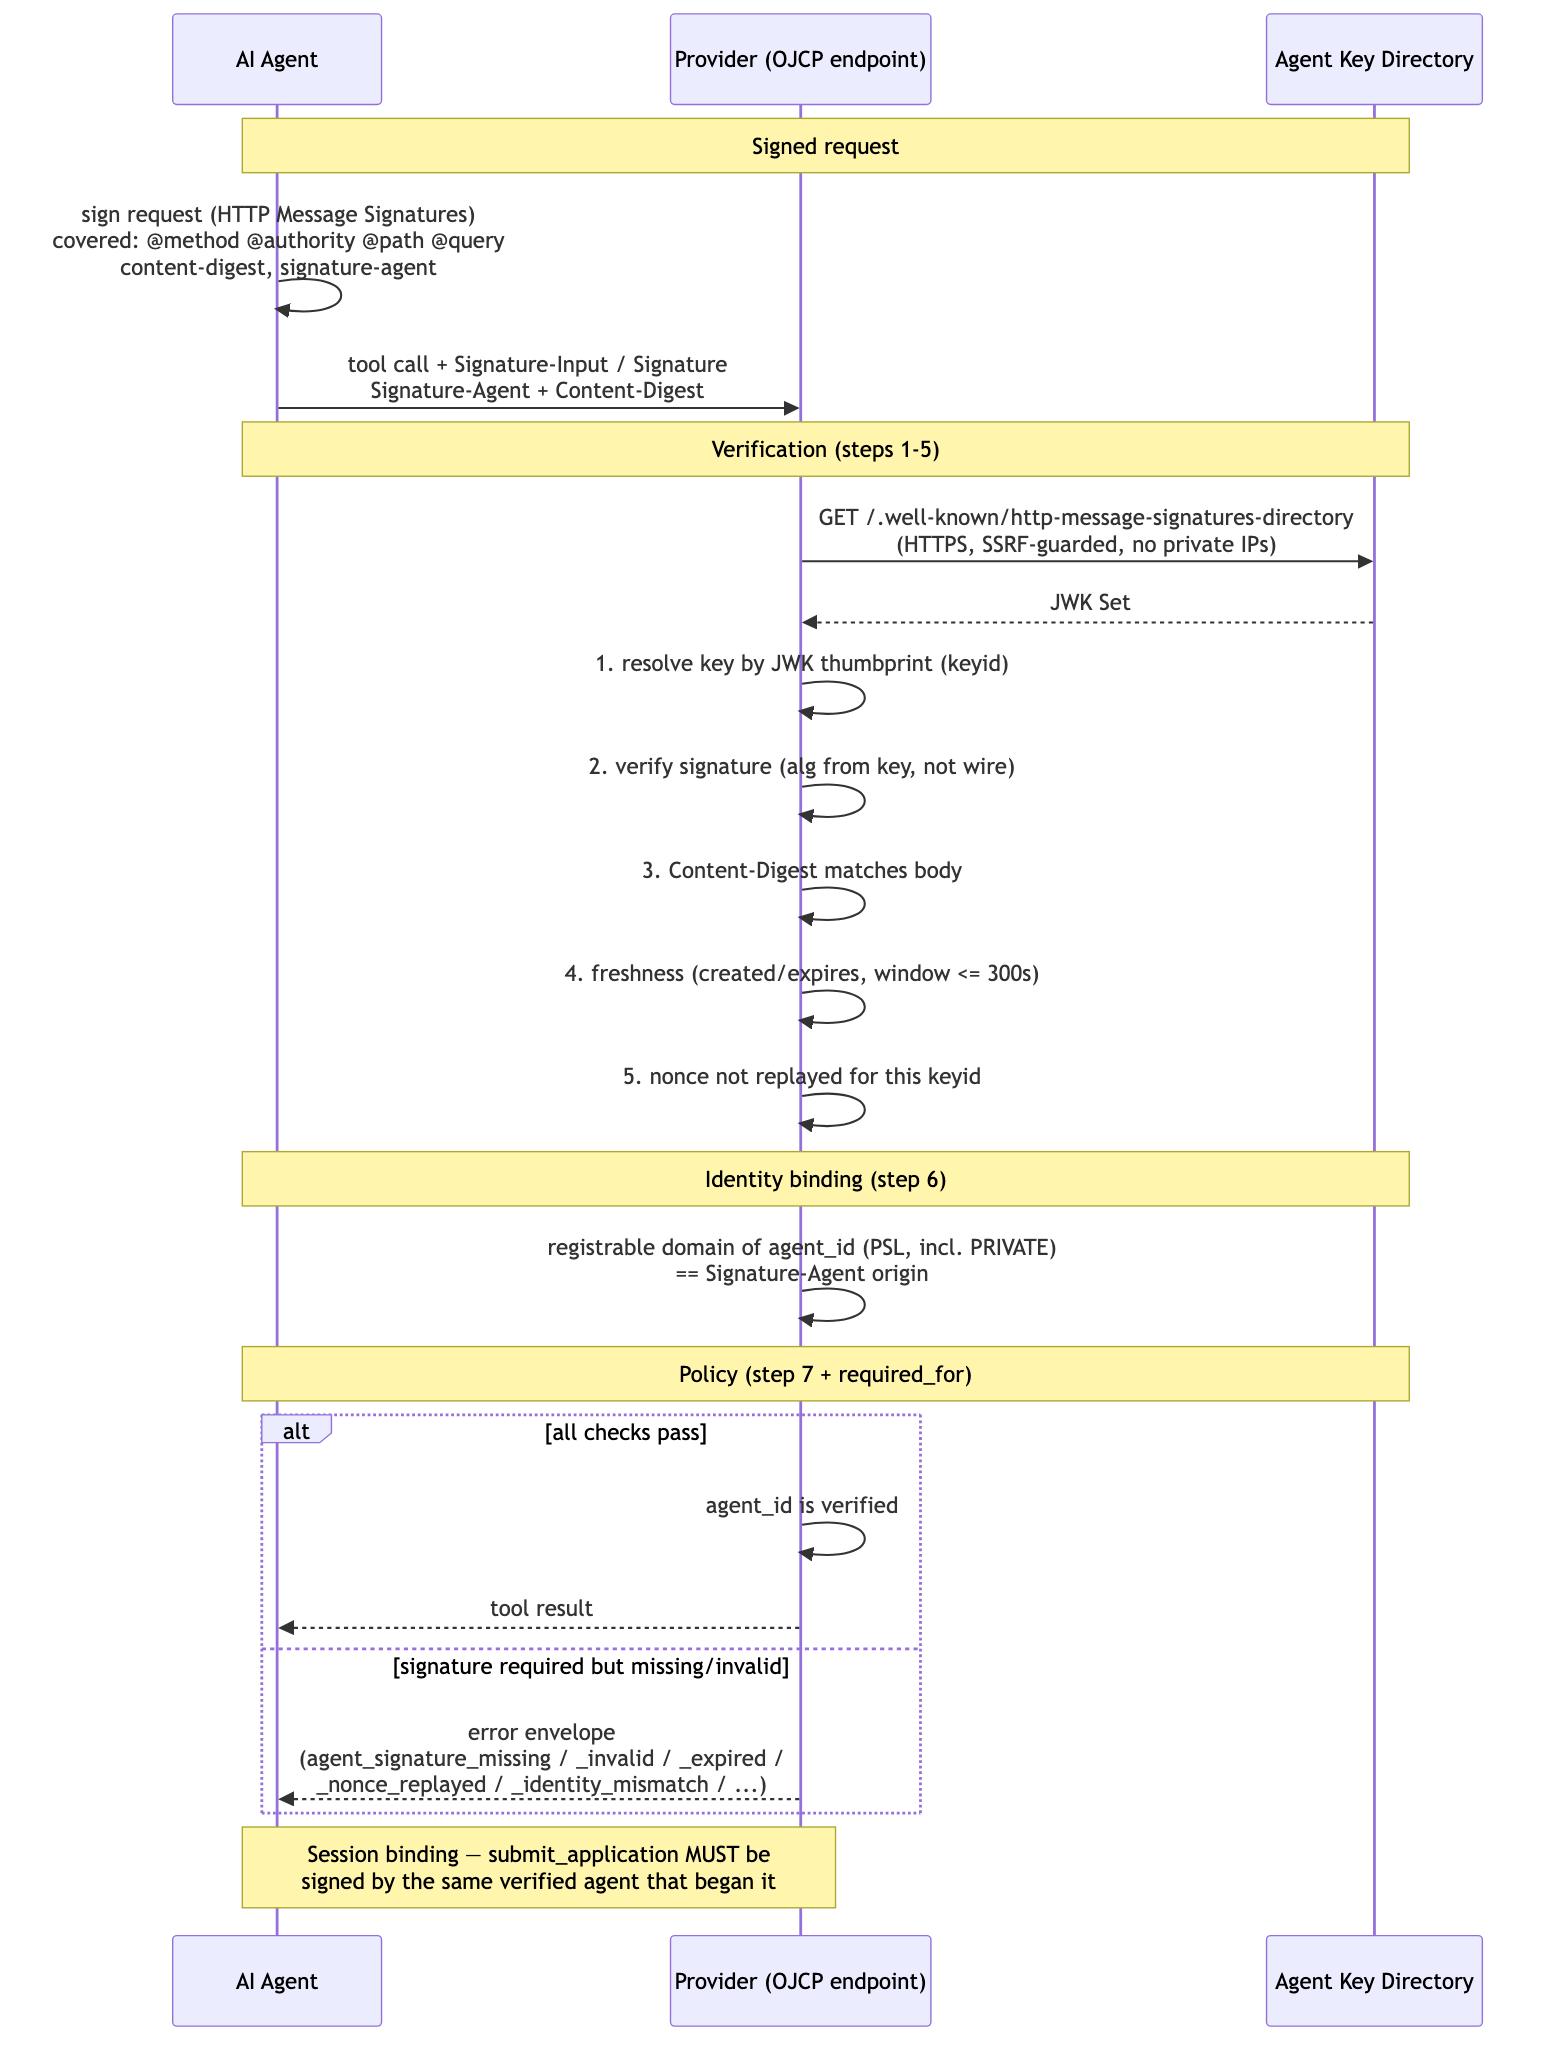
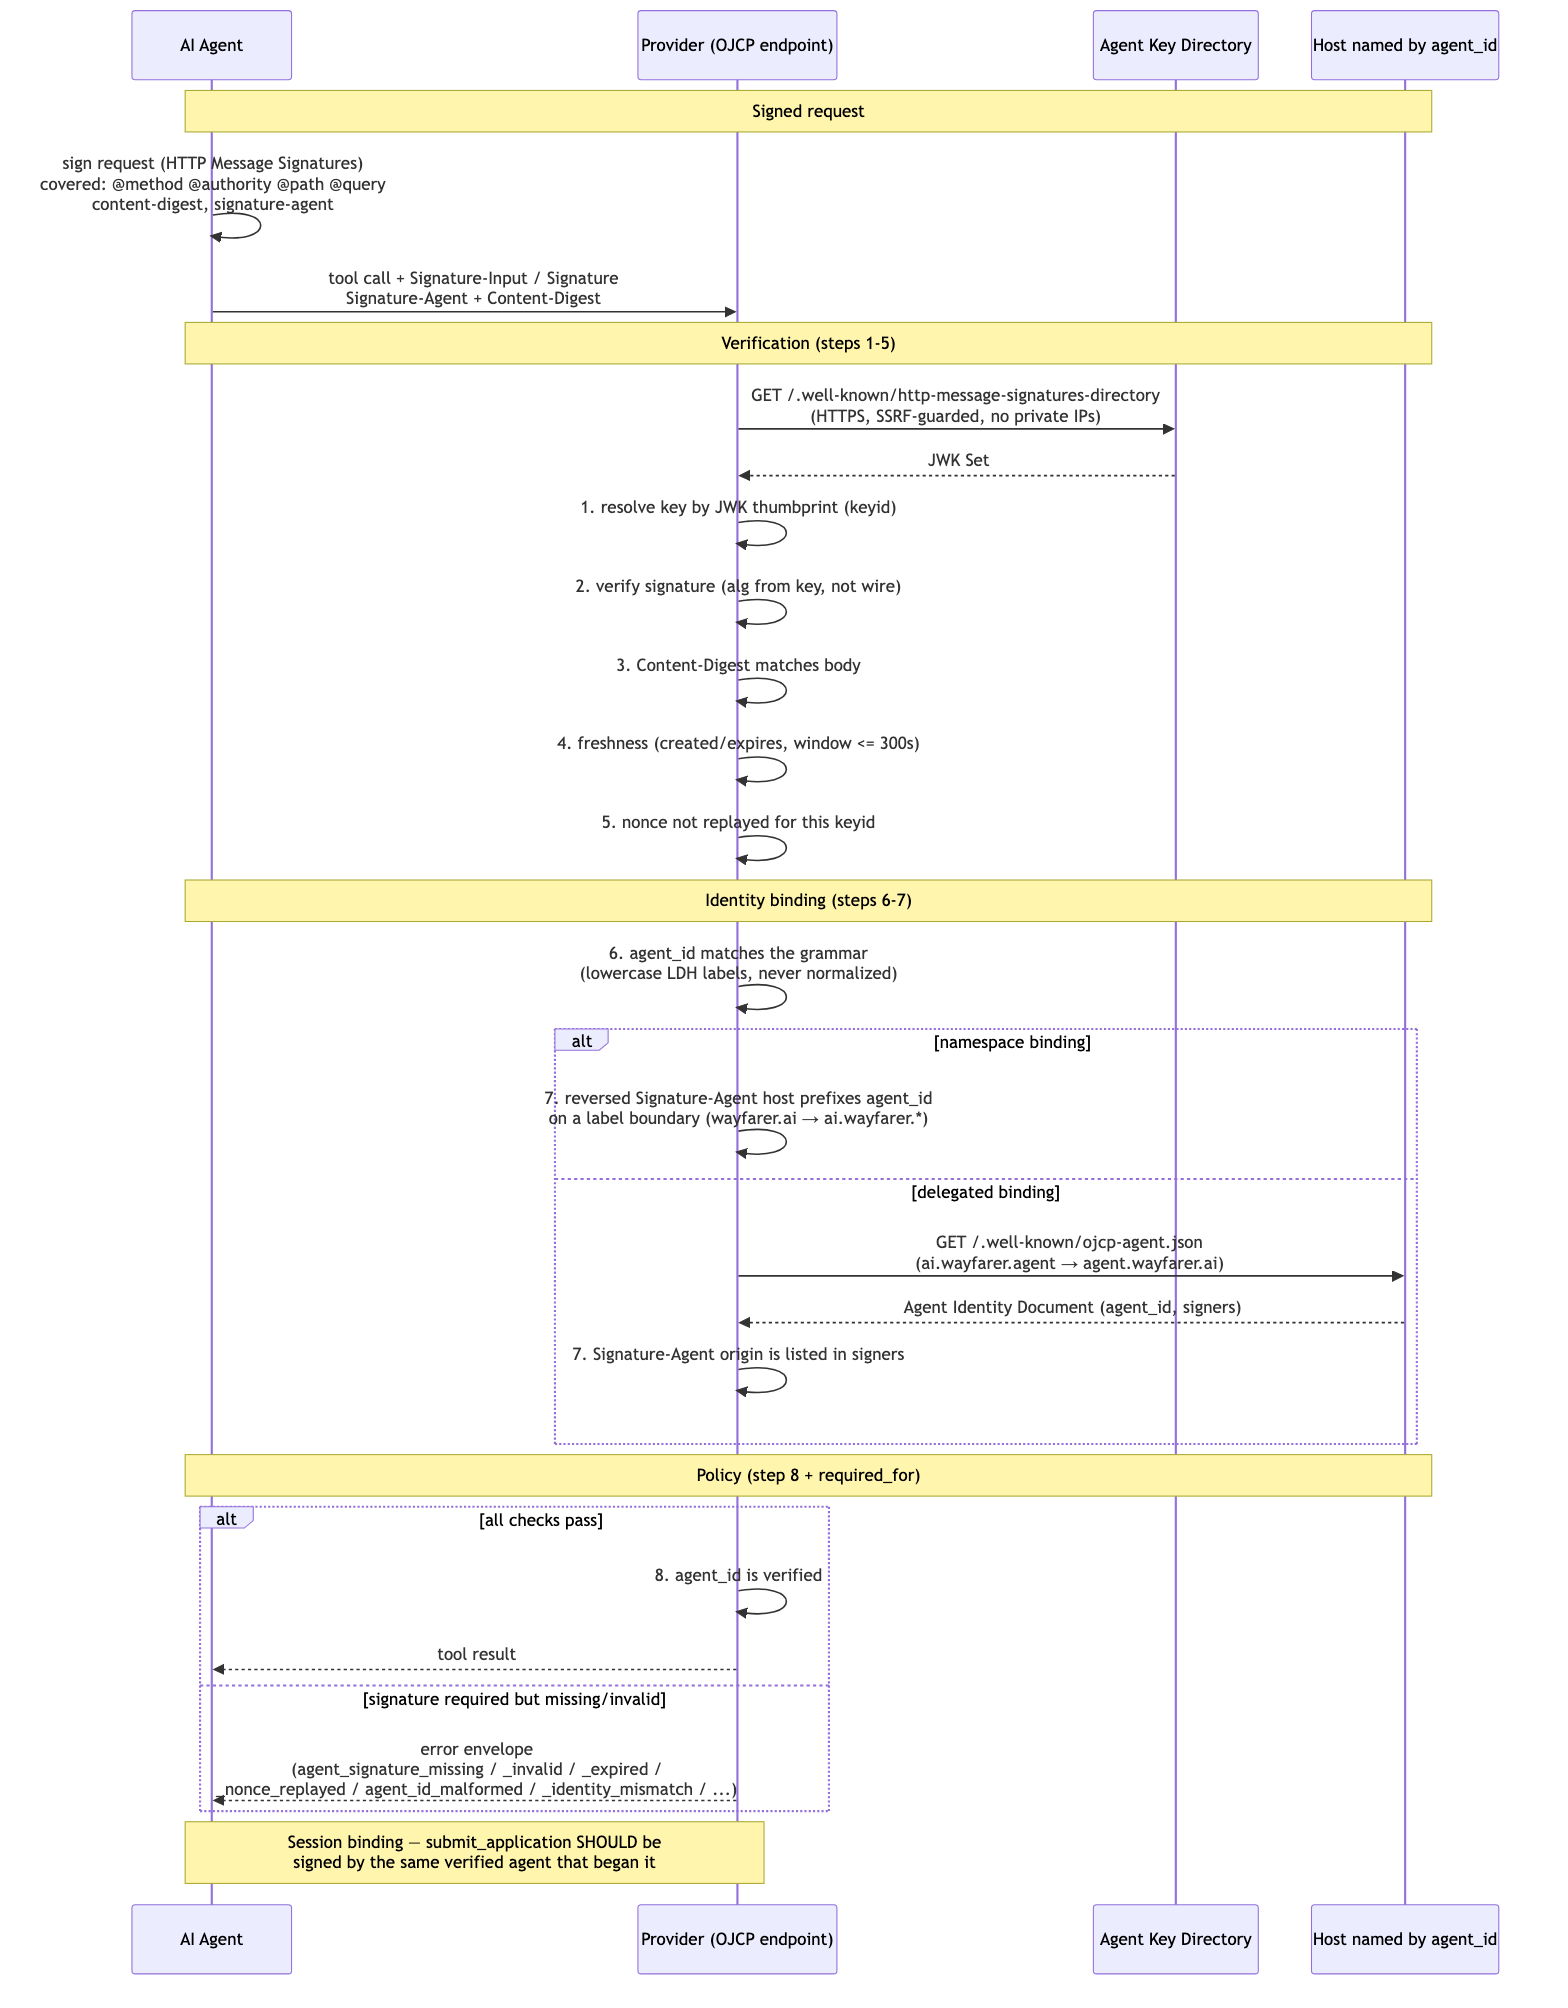
Versioned spec site and 0.3 diagrams
spec.ojcp.dev now serves the latest spec at the root and builds a
permanent /<version>/ snapshot from every release tag; a tag push
republishes the site. Previously every build was published at /0.1/.

Diagrams: agent identity shows grammar validation and namespace or
delegated binding instead of the Public Suffix List step; the apply flow
shows attribution at begin_application and the user mandate bound to the
application before submit; the agent-submitted verification flow shows
inline rendering via MCP Apps. PNGs re-rendered with mermaid-cli.

Changed region(s): [[0.0312, 0.0, 0.9688, 0.988]]

diff --git a/CHANGELOG.md b/CHANGELOG.md
@@ -7,6 +7,11 @@ and this project adheres to [Semantic Versioning](https://semver.org/spec/v2.0.0
 
 ## [Unreleased]
 
+### Changed
+
+- **Spec site layout** — [spec.ojcp.dev](https://spec.ojcp.dev/) serves the latest specification at the root, and every release keeps a permanent URL built from its tag (`/0.1/`, `/0.2/`, `/0.3/`). Pushing a release tag republishes the site.
+- **Diagrams** — the agent-identity sequence shows grammar validation and namespace or delegated binding (replacing the Public Suffix List step); the apply flow shows attribution at `begin_application` and the optional user mandate bound to the application before submit; the agent-submitted verification flow shows inline rendering via MCP Apps.
+
 ## [0.3] - 2026-10-08
 
 Minor version. All changes are additive and backward-compatible: the schema `$id`
